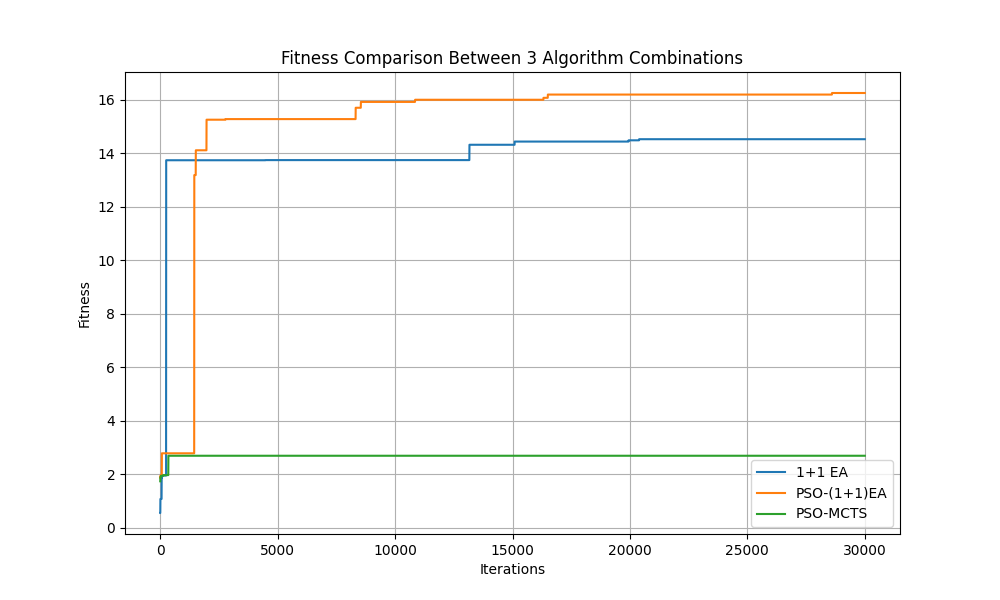
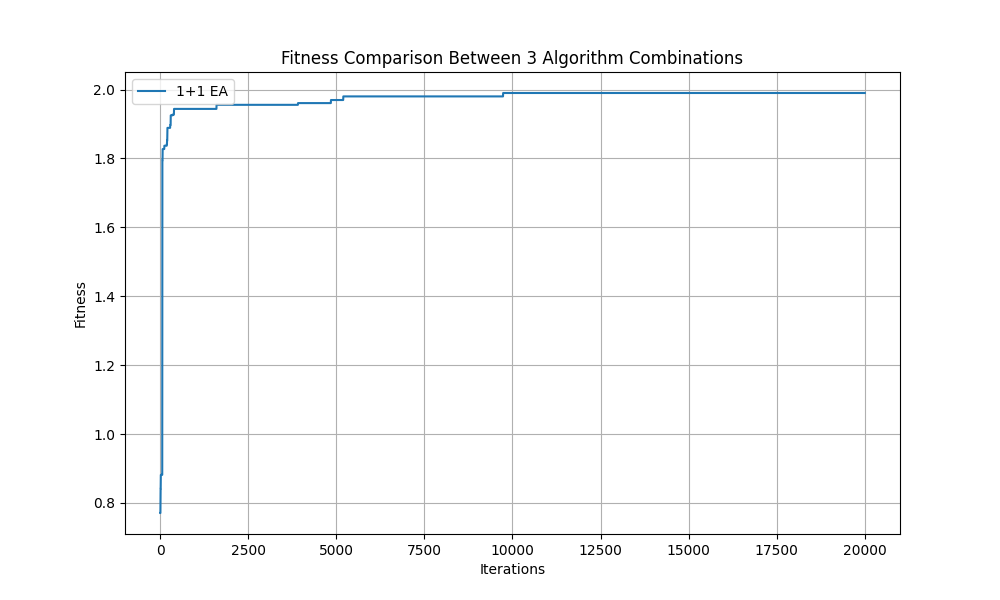
fill blank added

diff --git a/code/3_optimization/run_pso_mcts.py b/code/3_optimization/run_pso_mcts.py
@@ -1149,9 +1149,9 @@ def fitness_partial(house):
     fitness = 0
     penalty = 0
     if check_GAR_side(house) == 0:
-        penalty += 1
+        penalty += 2
     if check_no_entry_touch(house) == 0:
-        penalty += 0.5
+        penalty += 0.9
     if bigger_MBR(house) == 0:
         penalty += 0.8
 
@@ -1181,7 +1181,7 @@ def fitness_partial(house):
             + 0.5 * (1 - dis_GAR_KIC(house))
             + dis_MBR_LR(house)
             + dis_MBR_KIC(house)
-            + utilization_rate(house) * 8
+            + utilization_rate(house) * 10
         )
 
     # fitness += diff_public_private(house)
@@ -1229,6 +1229,205 @@ def fitness_all(house):
         )
 
     return fitness
+
+
+# Move all rooms to the nearest edge (left, right, top, or bottom) without overlap
+def move_rooms_to_edges(house):
+    for room in house.rooms:
+        # Try each direction
+        for direction in ["left", "right", "up", "down"]:
+            while True:
+                # Calculate new position
+                new_x, new_y = room.x, room.y
+                if direction == "left":
+                    new_x -= 1
+                elif direction == "right":
+                    new_x += 1
+                elif direction == "up":
+                    new_y += 1
+                elif direction == "down":
+                    new_y -= 1
+                # Create new polygon for the room
+                new_polygon = Polygon(
+                    [
+                        (new_x, new_y),
+                        (new_x + room.width, new_y),
+                        (new_x + room.width, new_y + room.depth),
+                        (new_x, new_y + room.depth),
+                    ]
+                )
+                # Check if new position is valid (within boundary and no overlap)
+                if not house.boundary.contains(new_polygon):
+                    break
+                overlap = False
+                for other in house.rooms:
+                    if other is not room and new_polygon.intersects(
+                        other.get_polygon()
+                    ):
+                        overlap = True
+                        break
+                if overlap:
+                    break
+                # Update room position
+                room.x, room.y = new_x, new_y
+
+
+# Expand public rooms (KIC, LR, DR) into adjacent blank space without overlap
+def expand_public_rooms(house):
+    public_names = ["KIC", "LR", "DR"]
+    for room in house.rooms:
+        if room.name not in public_names:
+            continue
+        # Try to expand in all four directions
+        for direction in ["left", "right", "up", "down"]:
+            while True:
+                # Prepare new polygon for expansion
+                if direction == "left":
+                    new_x = room.x - 1
+                    new_width = room.width + 1
+                    new_polygon = Polygon(
+                        [
+                            (new_x, room.y),
+                            (new_x + new_width, room.y),
+                            (new_x + new_width, room.y + room.depth),
+                            (new_x, room.y + room.depth),
+                        ]
+                    )
+                elif direction == "right":
+                    new_x = room.x
+                    new_width = room.width + 1
+                    new_polygon = Polygon(
+                        [
+                            (new_x, room.y),
+                            (new_x + new_width, room.y),
+                            (new_x + new_width, room.y + room.depth),
+                            (new_x, room.y + room.depth),
+                        ]
+                    )
+                elif direction == "up":
+                    new_y = room.y
+                    new_depth = room.depth + 1
+                    new_polygon = Polygon(
+                        [
+                            (room.x, new_y),
+                            (room.x + room.width, new_y),
+                            (room.x + room.width, new_y + new_depth),
+                            (room.x, new_y + new_depth),
+                        ]
+                    )
+                elif direction == "down":
+                    new_y = room.y - 1
+                    new_depth = room.depth + 1
+                    new_polygon = Polygon(
+                        [
+                            (room.x, new_y),
+                            (room.x + room.width, new_y),
+                            (room.x + room.width, new_y + new_depth),
+                            (room.x, new_y + new_depth),
+                        ]
+                    )
+                # Check if expansion is valid
+                if not house.boundary.contains(new_polygon):
+                    break
+                overlap = False
+                for other in house.rooms:
+                    if other is not room and new_polygon.overlaps(other.get_polygon()):
+                        overlap = True
+                        break
+                if overlap:
+                    break
+                # Update room position and size
+                if direction == "left":
+                    room.x -= 1
+                    room.width += 1
+                elif direction == "right":
+                    room.width += 1
+                elif direction == "up":
+                    room.depth += 1
+                elif direction == "down":
+                    room.y -= 1
+                    room.depth += 1
+
+
+def expand_other_rooms(house):
+    public_names = ["KIC", "LR", "DR"]
+    for room in house.rooms:
+        if room.name in public_names:
+            continue
+        # Try to expand in all four directions
+        for direction in ["left", "right", "up", "down"]:
+            while True:
+                # Prepare new polygon for expansion
+                if direction == "left":
+                    new_x = room.x - 1
+                    new_width = room.width + 1
+                    new_polygon = Polygon(
+                        [
+                            (new_x, room.y),
+                            (new_x + new_width, room.y),
+                            (new_x + new_width, room.y + room.depth),
+                            (new_x, room.y + room.depth),
+                        ]
+                    )
+                elif direction == "right":
+                    new_x = room.x
+                    new_width = room.width + 1
+                    new_polygon = Polygon(
+                        [
+                            (new_x, room.y),
+                            (new_x + new_width, room.y),
+                            (new_x + new_width, room.y + room.depth),
+                            (new_x, room.y + room.depth),
+                        ]
+                    )
+                elif direction == "up":
+                    new_y = room.y
+                    new_depth = room.depth + 1
+                    new_polygon = Polygon(
+                        [
+                            (room.x, new_y),
+                            (room.x + room.width, new_y),
+                            (room.x + room.width, new_y + new_depth),
+                            (room.x, new_y + new_depth),
+                        ]
+                    )
+                elif direction == "down":
+                    new_y = room.y - 1
+                    new_depth = room.depth + 1
+                    new_polygon = Polygon(
+                        [
+                            (room.x, new_y),
+                            (room.x + room.width, new_y),
+                            (room.x + room.width, new_y + new_depth),
+                            (room.x, new_y + new_depth),
+                        ]
+                    )
+                # Check if expansion is valid
+                if not house.boundary.contains(new_polygon):
+                    break
+                overlap = False
+                for other in house.rooms:
+                    if other is not room and new_polygon.overlaps(other.get_polygon()):
+                        overlap = True
+                        break
+                if overlap:
+                    break
+                # Update room position and size
+                if direction == "left":
+                    room.x -= 1
+                    room.width += 1
+                elif direction == "right":
+                    room.width += 1
+                elif direction == "up":
+                    room.depth += 1
+                elif direction == "down":
+                    room.y -= 1
+                    room.depth += 1
+
+
+# Example usage after your main optimisation:
+# move_rooms_to_edges(house)
+# expand_public_rooms(house)
 
 
 # Parameters
@@ -2075,6 +2274,22 @@ class Size_OnePlusOneEA:
                 )
             i += 1
 
+        if self.best_fitness >= 2.8:
+            # move rooms to edges
+            # move_rooms_to_edges(self.best_layout)
+            # expand the public rooms
+            expand_public_rooms(self.best_layout)
+            expand_other_rooms(self.best_layout)
+            save_snapshots(
+                current_time,
+                self.best_layout,
+                "final_adjusted",
+                self.best_fitness,
+                0,
+                0,
+                0,
+            )
+
         return self.best_layout, self.best_fitness
 
 
@@ -2082,29 +2297,29 @@ class Size_OnePlusOneEA:
 if __name__ == "__main__":
     # Record start time for 1+1 EA
     start_time_ea = time.time()
-    size_one_plus_OneEA = Size_OnePlusOneEA(boundary, rooms_range, max_iter=30000)
+    size_one_plus_OneEA = Size_OnePlusOneEA(boundary, rooms_range, max_iter=20000)
     size_one_plus_OneEA.search()
     end_time_ea = time.time()
 
-    # Record start time for PSO_OnePlusOneEA
-    start_time_pso = time.time()
-    pso_1P1EA = PSO_OnePlusOneEA(
-        rooms_range, num_particles=100, max_iter=30000, mcts_iter=150
-    )
-    pso_1P1EA.optimize(boundary)
-    end_time_pso = time.time()
+    # # Record start time for PSO_OnePlusOneEA
+    # start_time_pso = time.time()
+    # pso_1P1EA = PSO_OnePlusOneEA(
+    #     rooms_range, num_particles=100, max_iter=30000, mcts_iter=150
+    # )
+    # pso_1P1EA.optimize(boundary)
+    # end_time_pso = time.time()
 
-    # Record start time for PSO_MCTS
-    start_time_pso_mcts = time.time()
-    pso_mcts = PSO_MCTS(rooms_range, num_particles=100, max_iter=30000, mcts_iter=150)
-    pso_mcts.optimize(boundary)
-    end_time_pso_mcts = time.time()
+    # # Record start time for PSO_MCTS
+    # start_time_pso_mcts = time.time()
+    # pso_mcts = PSO_MCTS(rooms_range, num_particles=100, max_iter=30000, mcts_iter=150)
+    # pso_mcts.optimize(boundary)
+    # end_time_pso_mcts = time.time()
 
     # Plot fitness history
     plt.figure(figsize=(10, 6))
     plt.plot(size_one_plus_OneEA.fitness_history, label="1+1 EA")
-    plt.plot(pso_1P1EA.fitness_history, label="PSO-(1+1)EA")
-    plt.plot(pso_mcts.fitness_history, label="PSO-MCTS")
+    # plt.plot(pso_1P1EA.fitness_history, label="PSO-(1+1)EA")
+    # plt.plot(pso_mcts.fitness_history, label="PSO-MCTS")
     plt.xlabel("Iterations")
     plt.ylabel("Fitness")
     plt.title("Fitness Comparison Between 3 Algorithm Combinations")
@@ -2115,7 +2330,7 @@ if __name__ == "__main__":
 
     # Print execution times
     print(f"1+1 EA execution time: {end_time_ea - start_time_ea:.2f} seconds")
-    print(f"PSO-(1+1)EA execution time: {end_time_pso - start_time_pso:.2f} seconds")
-    print(
-        f"PSO-MCTS execution time: {end_time_pso_mcts - start_time_pso_mcts:.2f} seconds"
-    )
+    # print(f"PSO-(1+1)EA execution time: {end_time_pso - start_time_pso:.2f} seconds")
+    # print(
+    #     f"PSO-MCTS execution time: {end_time_pso_mcts - start_time_pso_mcts:.2f} seconds"
+    # )
